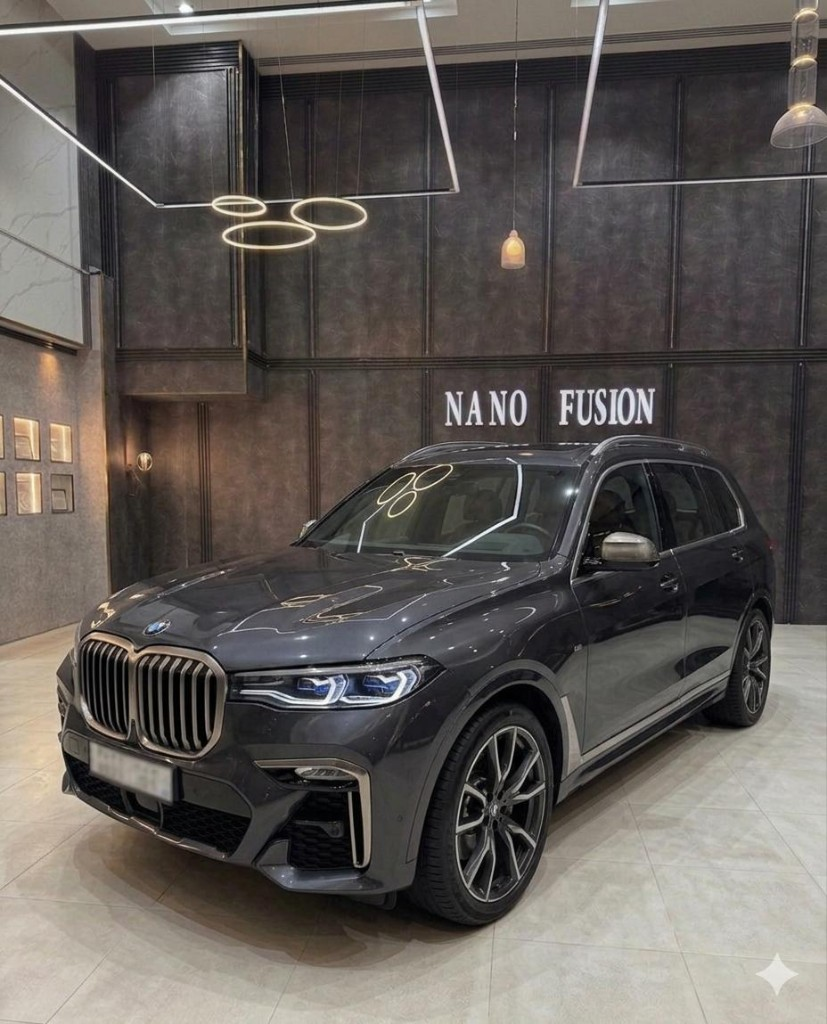
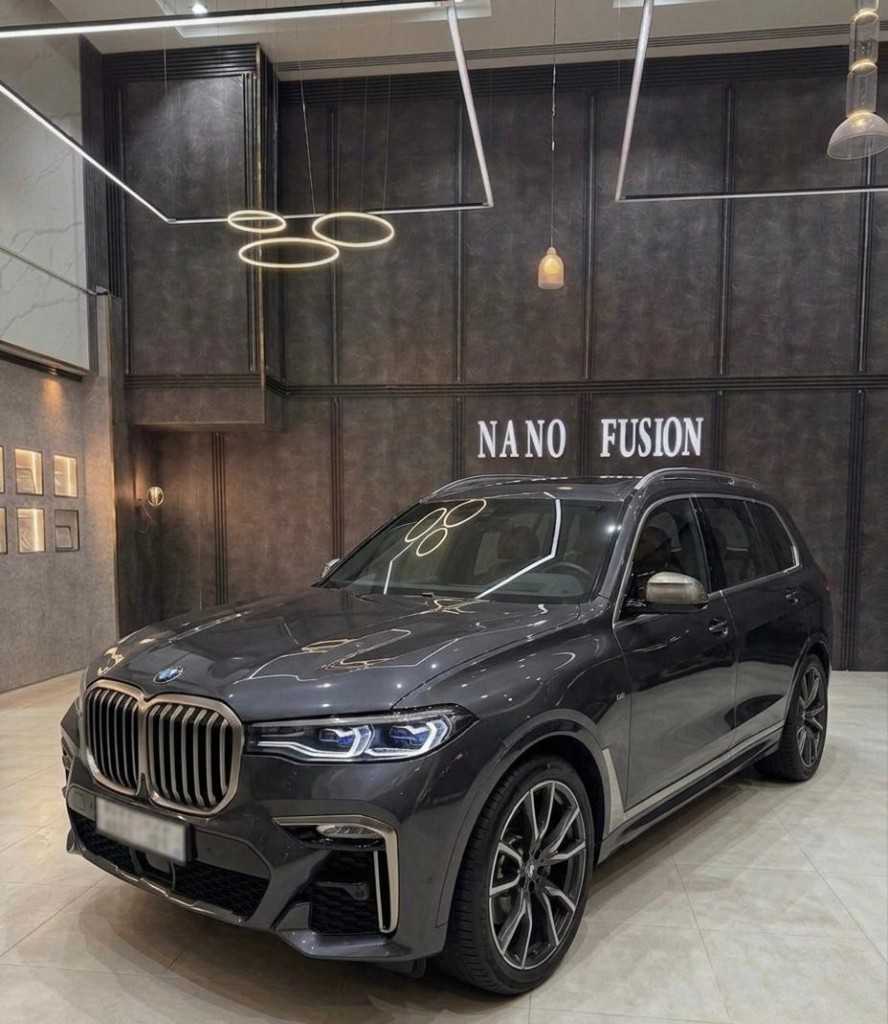
Gallery: replace BMW X7 showroom image; update img dimensions

diff --git a/nanofusion-website/index.html b/nanofusion-website/index.html
@@ -1840,7 +1840,7 @@
             <img src="assets/gallery/gallery-6.png" alt="Nano Fusion — معرض" loading="lazy" decoding="async" width="800" height="1000" onerror="this.onerror=null;this.src='assets/gallery/placeholder.svg'">
           </figure>
           <figure class="gallery-cell reveal" role="listitem">
-            <img src="assets/gallery/gallery-showroom-bmw-x7.png" alt="نانو فيوجن — BMW X7 في الصالة" loading="lazy" decoding="async" width="827" height="1024" onerror="this.onerror=null;this.src='assets/gallery/placeholder.svg'">
+            <img src="assets/gallery/gallery-showroom-bmw-x7.png" alt="نانو فيوجن — BMW X7 في الصالة" loading="lazy" decoding="async" width="888" height="1024" onerror="this.onerror=null;this.src='assets/gallery/placeholder.svg'">
           </figure>
           <figure class="gallery-cell reveal" role="listitem">
             <img src="assets/gallery/gallery-showroom-range-rover.png" alt="نانو فيوجن — رنج روفر في الصالة" loading="lazy" decoding="async" width="889" height="1024" onerror="this.onerror=null;this.src='assets/gallery/placeholder.svg'">

diff --git a/web/marketing/index.html b/web/marketing/index.html
@@ -1931,7 +1931,7 @@
             <img src="assets/gallery/gallery-6.png" alt="Nano Fusion — معرض" loading="lazy" decoding="async" width="800" height="1000" onerror="this.onerror=null;this.src='assets/gallery/placeholder.svg'">
           </figure>
           <figure class="gallery-cell reveal" role="listitem">
-            <img src="assets/gallery/gallery-showroom-bmw-x7.png" alt="نانو فيوجن — BMW X7 في الصالة" loading="lazy" decoding="async" width="827" height="1024" onerror="this.onerror=null;this.src='assets/gallery/placeholder.svg'">
+            <img src="assets/gallery/gallery-showroom-bmw-x7.png" alt="نانو فيوجن — BMW X7 في الصالة" loading="lazy" decoding="async" width="888" height="1024" onerror="this.onerror=null;this.src='assets/gallery/placeholder.svg'">
           </figure>
           <figure class="gallery-cell reveal" role="listitem">
             <img src="assets/gallery/gallery-showroom-range-rover.png" alt="نانو فيوجن — رنج روفر في الصالة" loading="lazy" decoding="async" width="889" height="1024" onerror="this.onerror=null;this.src='assets/gallery/placeholder.svg'">

diff --git a/nanofusion-website/en/index.html b/nanofusion-website/en/index.html
@@ -1842,7 +1842,7 @@
             <img src="../assets/gallery/gallery-6.png" alt="Nano Fusion gallery" loading="lazy" decoding="async" width="800" height="1000" onerror="this.onerror=null;this.src='../assets/gallery/placeholder.svg'">
           </figure>
           <figure class="gallery-cell reveal" role="listitem">
-            <img src="../assets/gallery/gallery-showroom-bmw-x7.png" alt="Nano Fusion — BMW X7 in showroom" loading="lazy" decoding="async" width="827" height="1024" onerror="this.onerror=null;this.src='../assets/gallery/placeholder.svg'">
+            <img src="../assets/gallery/gallery-showroom-bmw-x7.png" alt="Nano Fusion — BMW X7 in showroom" loading="lazy" decoding="async" width="888" height="1024" onerror="this.onerror=null;this.src='../assets/gallery/placeholder.svg'">
           </figure>
           <figure class="gallery-cell reveal" role="listitem">
             <img src="../assets/gallery/gallery-showroom-range-rover.png" alt="Nano Fusion — Range Rover in showroom" loading="lazy" decoding="async" width="889" height="1024" onerror="this.onerror=null;this.src='../assets/gallery/placeholder.svg'">

diff --git a/web/marketing/en/index.html b/web/marketing/en/index.html
@@ -1900,7 +1900,7 @@
             <img src="../assets/gallery/gallery-6.png" alt="Nano Fusion gallery" loading="lazy" decoding="async" width="800" height="1000" onerror="this.onerror=null;this.src='../assets/gallery/placeholder.svg'">
           </figure>
           <figure class="gallery-cell reveal" role="listitem">
-            <img src="../assets/gallery/gallery-showroom-bmw-x7.png" alt="Nano Fusion — BMW X7 in showroom" loading="lazy" decoding="async" width="827" height="1024" onerror="this.onerror=null;this.src='../assets/gallery/placeholder.svg'">
+            <img src="../assets/gallery/gallery-showroom-bmw-x7.png" alt="Nano Fusion — BMW X7 in showroom" loading="lazy" decoding="async" width="888" height="1024" onerror="this.onerror=null;this.src='../assets/gallery/placeholder.svg'">
           </figure>
           <figure class="gallery-cell reveal" role="listitem">
             <img src="../assets/gallery/gallery-showroom-range-rover.png" alt="Nano Fusion — Range Rover in showroom" loading="lazy" decoding="async" width="889" height="1024" onerror="this.onerror=null;this.src='../assets/gallery/placeholder.svg'">
